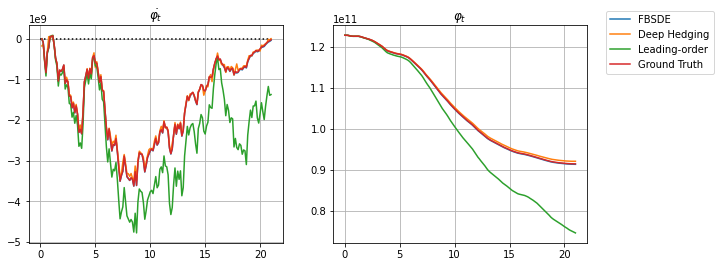
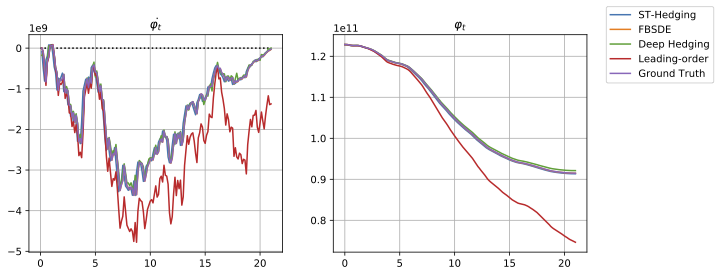
update scripts

Changed region(s): [[0.4278, 0.0, 1.0, 0.9888], [0.0, 0.03, 0.3972, 0.8689], [0.0, 0.8989, 0.3972, 0.9888]]

diff --git a/SingleAgent-Stage2/SingleAgentPipe.py b/SingleAgent-Stage2/SingleAgentPipe.py
@@ -612,6 +612,34 @@ class DynamicsFactory():
         phi_dot_stm = torch.cat((phi_dot_stm_leading_order, phi_dot_stm_pasting), dim = 1)
         phi_stm = torch.cat((phi_stm_leading_order, phi_stm_pasting[:,1:,:]), dim = 1)
         return phi_dot_stm, phi_stm
+    
+    def st_hedging(self, model, M, dt = TR / T, pasting_T = None, pasting_algo = "deep_hedging"):
+#        phi_stm = torch.zeros((self.n_sample, T + 1, N_STOCK)).to(device = DEVICE)
+##         phi_stm[:,0,:] = S_OUTSTANDING / 2
+#        phi_dot_stm = torch.zeros((self.n_sample, T, N_STOCK)).to(device = DEVICE)
+        if POWER == 2:
+            phi_dot_stm_leading_order, phi_stm_leading_order = self.leading_order_quad(time_len = M)
+        else:
+            phi_dot_stm_leading_order, phi_stm_leading_order = self.leading_order_power(POWER, time_len = M)
+#        print(phi_stm_leading_order[0,-1,:])
+        if pasting_T is None:
+            time_len = T - M
+        else:
+            time_len = pasting_T
+        if pasting_algo == "deep_hedging":
+            phi_dot_stm_pasting, phi_stm_pasting = self.deep_hedging(model, time_len = time_len, phi_0 = phi_stm_leading_order[:,-1,:].data, start_t = M, dt = dt)
+        else:
+            if POWER == 2:
+                phi_dot_stm_pasting, phi_stm_pasting, _ = self.fbsde_quad(model, time_len = time_len, phi_0 = phi_stm_leading_order[:,-1,:].data, start_t = M, dt = dt)
+            else:
+                phi_dot_stm_pasting, phi_stm_pasting = self.fbsde_power(model, time_len = time_len, phi_0 = phi_stm_leading_order[:,-1,:].data, start_t = M, dt = dt)
+#        phi_dot_stm[:,:M,:] += phi_dot_stm_leading_order
+#        phi_stm[:,:(M+1),:] += phi_stm_leading_order
+#        phi_dot_stm[:,M:,:] += phi_dot_stm_deep_hedging
+#        phi_stm[:,(M+1):,:] += phi_stm_deep_hedging[:,1:,:]
+        phi_dot_stm = torch.cat((phi_dot_stm_leading_order, phi_dot_stm_pasting), dim = 1)
+        phi_stm = torch.cat((phi_stm_leading_order, phi_stm_pasting[:,1:,:]), dim = 1)
+        return phi_dot_stm, phi_stm
 
 ## TODO: Implement it
 ## Return the loss as a tensor

diff --git a/README.md b/README.md
@@ -36,7 +36,7 @@ The general variables and the market parameters in the code are summarized below
 ## Basic Setup for the case with multiple stocks
 
 For high dimensional case with three stocks, we consider the quadratic transaction cost model. Again, both of the FBSDE solver and the Deep Hedging are implemented. And the asymptotic formula from Equation (3.4) in reference [2], and the ground truth from equation (4.1) in reference [2] are included in `leading_order_quad` and `ground_truth` of `DynamicsFactory` class in 
-[`SingleAgent-Stage2/SingleAgentPipe.py`](./SingleAgent-Stage2/SingleAgentPipe.py). Finally, we implement the pasting algorithm illustrated in Section (4.3) in reference [2]. 
+[`SingleAgent-Stage2/SingleAgentPipe.py`](./SingleAgent-Stage2/SingleAgentPipe.py). Finally, we implement the ST-Hedging algorithm illustrated in Section (4.3) in reference [2]. 
 <br/><br/>
 The general variables and the market parameters in the code are summarized below:
 | Variable | Meaning |
@@ -120,10 +120,10 @@ The core dynamic is defined in the function `deep_hedging`, and the key variable
 | `phi_stm_bar` | collection of the frictionless positions throughout the trading horizon, <img src="https://latex.codecogs.com/gif.latex?\{\bar{\varphi_t}\}" /> |
 | `phi_dot_stm` | output of the neural network <img src="https://latex.codecogs.com/gif.latex?F^{\theta} " />, collection of the frictional trading rate throughout the trading horizon, <img src="https://latex.codecogs.com/gif.latex?\{\dot{\varphi_t}\}" /> |
 
-## Pasting Algorithm
-For the detailed implementation of the Pasting Algorithm, see the class `DynamicsFactory` in 
+## ST-Hedging Algorithm
+For the detailed implementation of the ST-Hedging Algorithm, see the class `DynamicsFactory` in 
 [`SingleAgent-Stage2/SingleAgentPipe.py`](./SingleAgent-Stage2/SingleAgentPipe.py);      
-The core dynamic is defined in the function `pasting`, and the key variables in the code are summarized below:   
+The core dynamic is defined in the function `st_hedging`, and the key variables in the code are summarized below:   
 | Variable | Meaning |
 | --- | ---  |
 | `M`  | cut-off value for the trading horizon considered as long enough for the leading-order solution   |
